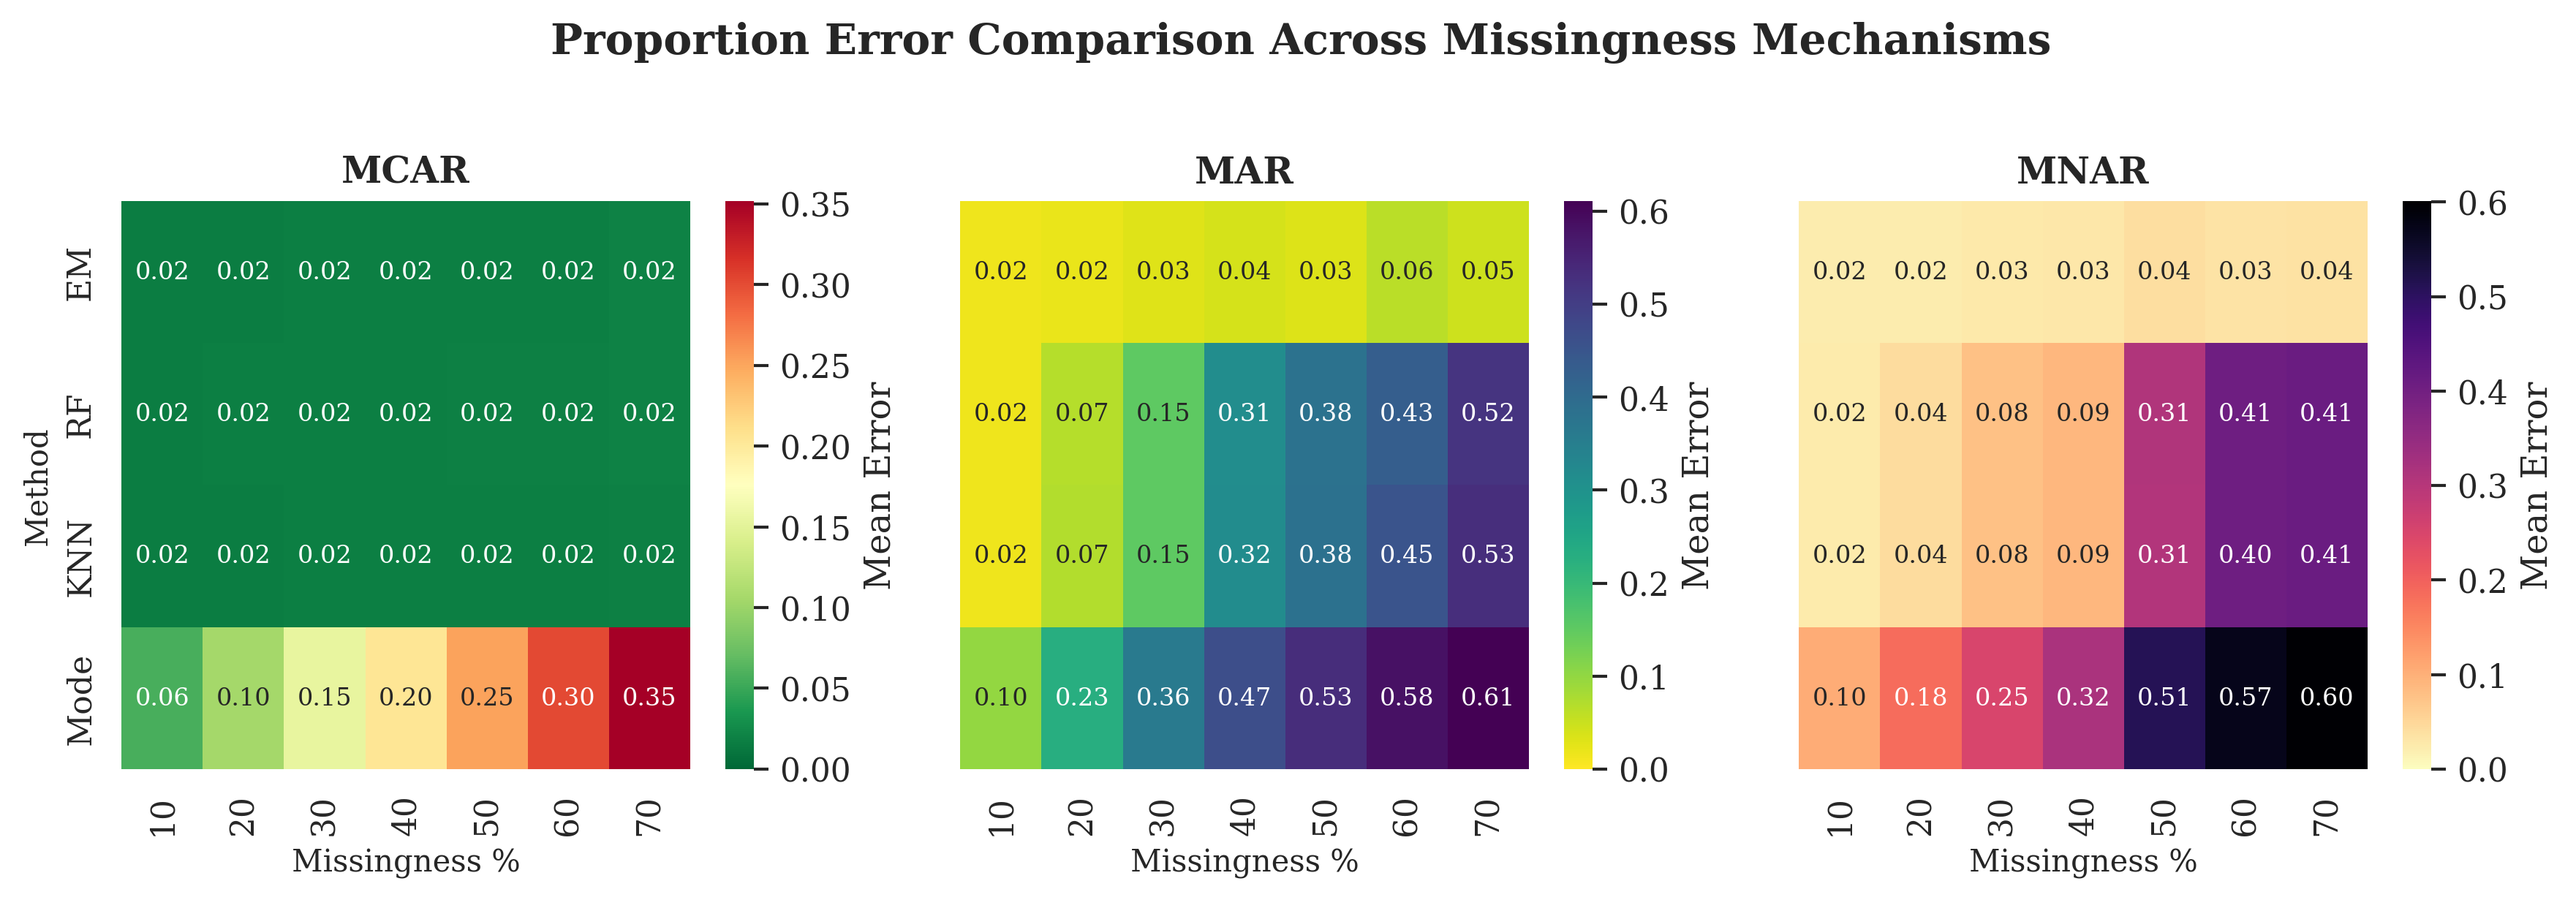
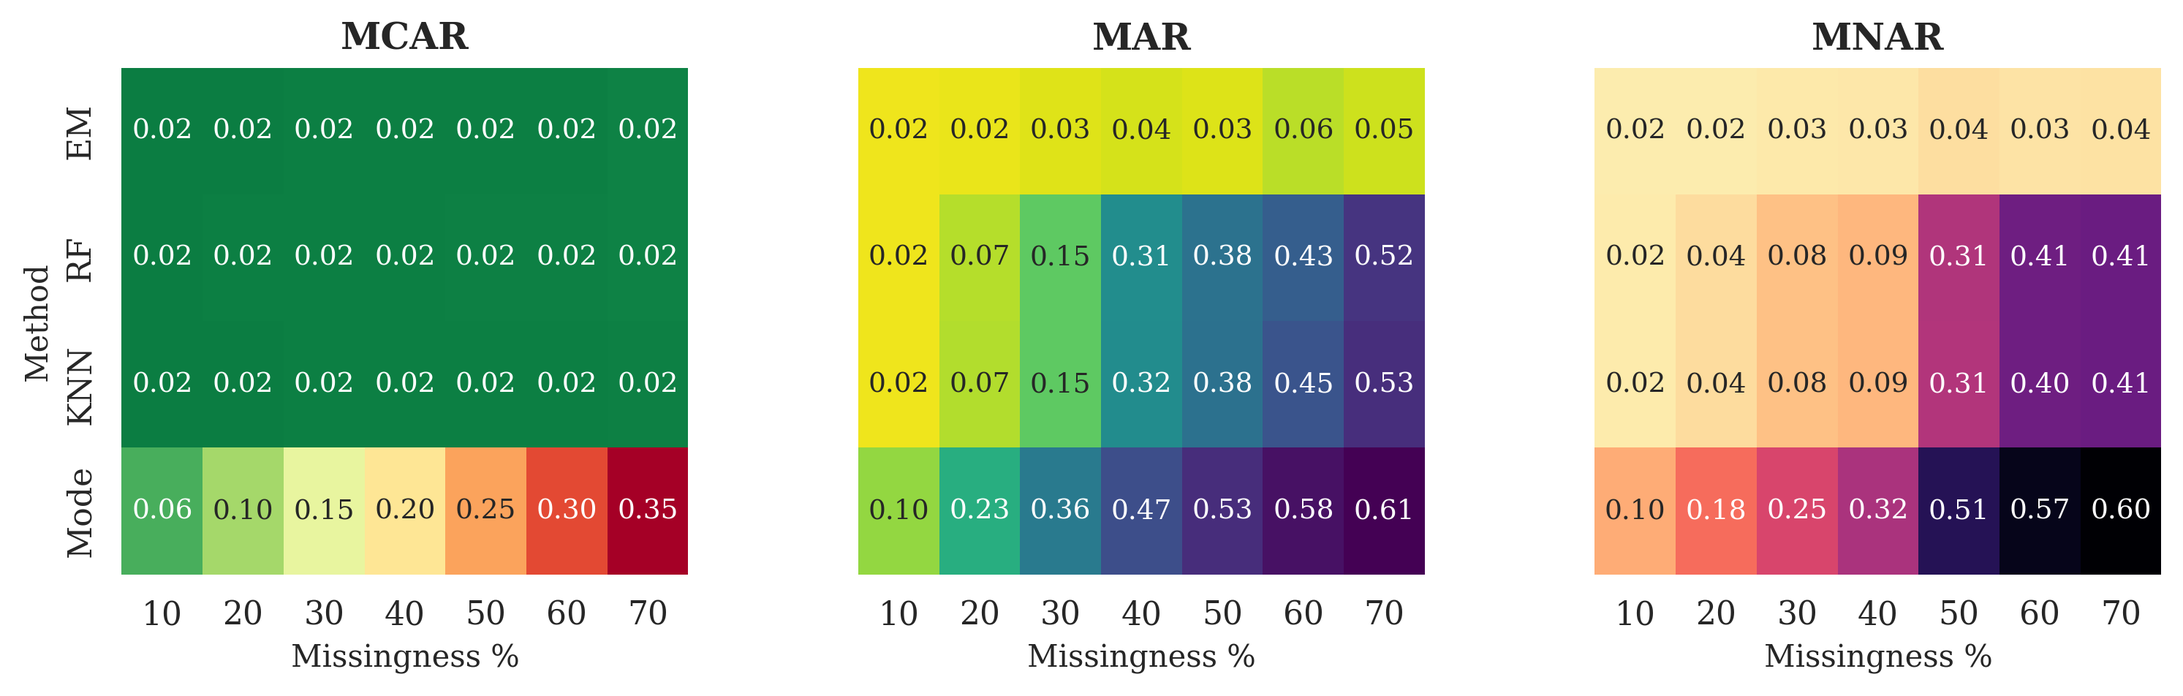
few modifications

diff --git a/utils/synthetic_multivariate/visualizations.py b/utils/synthetic_multivariate/visualizations.py
@@ -13,20 +13,21 @@ warnings.simplefilter(action='ignore', category=SyntaxWarning)
 sns.set_style("whitegrid")
 sns.set_context("paper", font_scale=1.2)
 plt.rcParams['font.family'] = 'serif'
+annot_kws = {"fontsize": 9}
 
-def plot_error_heatmap(df, figsize=(12, 4)):
-    """
-    Create heatmap showing average error across all mechanisms.
-    """
+def plot_error_heatmap(df, figsize=(12, 3)):
     df_error = prepare_error_data(df)
     
-    fig, axes = plt.subplots(1, 3, figsize=figsize, sharey=True)
+    # 'wspace': 0.5 adds significant horizontal space between plots (default is usually ~0.2)
+    fig, axes = plt.subplots(1, 3, figsize=figsize, sharey=True, 
+                             gridspec_kw={'wspace': 0.3}) 
+    
     cmaps = ['RdYlGn_r', 'viridis_r', 'magma_r']
     
     for idx, mechanism in enumerate(['MCAR', 'MAR', 'MNAR']):
         data = df_error[df_error['mechanism'] == mechanism]
         data.loc[:,"missingness_pct"] = round(data.loc[:,"missingness_pct"], 2)
-        # data.loc[:,"error"] = round(data.loc[:,"error"], 1)
+        
         pivot_data = data.pivot_table(
             values='error',
             index='method',
@@ -34,7 +35,6 @@ def plot_error_heatmap(df, figsize=(12, 4)):
             aggfunc='mean'
         )
         
-        # Reorder methods
         method_order = ['EM', 'MICE', 'KNN', 'Median', 'Mean']
         pivot_data = pivot_data.reindex(method_order)
         
@@ -44,9 +44,11 @@ def plot_error_heatmap(df, figsize=(12, 4)):
             fmt='.2f',
             cmap=cmaps[idx],
             ax=axes[idx],
-            cbar_kws={'label': 'Mean Error'},
+            cbar=False,
+            square=True, 
             vmin=0,
-            vmax=pivot_data.values.max()
+            vmax=pivot_data.values.max(),
+            annot_kws=annot_kws
         )
         
         axes[idx].set_title(mechanism, fontweight='bold', fontsize=12)
@@ -57,9 +59,9 @@ def plot_error_heatmap(df, figsize=(12, 4)):
         else:
             axes[idx].set_ylabel('')
     
-    plt.suptitle('Error Comparison Across Missingness Mechanisms', 
-                 fontsize=14, fontweight='bold', y=1.02)
-    plt.tight_layout()
+    # plt.suptitle('Error Comparison Across Missingness Mechanisms', 
+    #              fontsize=14, fontweight='bold', y=1.05)
+    
     return fig
 
 
@@ -1055,27 +1057,25 @@ def create_correlation_report(df, output_folder='plots'):
     """
     os.makedirs(output_folder, exist_ok=True)
     
-    # --- Plot 1: Independence (Covariance Index 0) ---
-    # In this scenario (Identity Matrix), EM should not perform significantly better than Mean
     fig_indep = plot_method_comparison_flexible(
         df,
         x_axis='missingness_pct',
         y_axis='error',
-        mechanism='MAR',      # We compare under MAR
+        mechanism='MAR',      
         cov_idx=0,            # Index 0 = Independence (from main.py config)
         methods=['EM', 'MICE', 'KNN', 'Mean'],
         figsize=(8, 6)
     )
     
     if fig_indep:
-        # Overwrite title and labels for academic clarity
+       
         ax = fig_indep.axes[0]
         
-        # UPDATED TITLE: Specifies Independence and Sigma = I
+        
         ax.set_title(r"Impact of Correlation: Independence ($\Sigma = I$)\nMechanism: MAR", 
                      fontweight='bold', fontsize=14)
         
-        # UPDATED Y-LABEL: Specifies the error formula
+        
         ax.set_ylabel(r'Mean Estimation Error ($||\hat{\mu} - \mu||_2$)', fontsize=12)
         
         # Save
@@ -1084,30 +1084,24 @@ def create_correlation_report(df, output_folder='plots'):
         plt.close(fig_indep)
         print(f"Saved: {save_path}")
 
-    # --- Plot 2: Strong Correlation (Covariance Index 2) ---
-    # In this scenario (rho=0.9), EM should significantly outperform Mean Imputation
+
     fig_strong = plot_method_comparison_flexible(
         df,
         x_axis='missingness_pct',
         y_axis='error',
         mechanism='MAR',
-        cov_idx=2,            # Index 2 = Strong Correlation (from main.py config)
+        cov_idx=2,            # Index 2 = Strong Correlation 
         methods=['EM', 'MICE', 'KNN', 'Mean'],
         figsize=(8, 6)
     )
     
     if fig_strong:
-        # Overwrite title and labels for academic clarity
-        ax = fig_strong.axes[0]
         
-        # UPDATED TITLE: Specifies Rho = 0.9
+        ax = fig_strong.axes[0]
         ax.set_title(r"Impact of Correlation: Strong Correlation ($\rho = 0.9$)" + "\nMechanism: MAR", 
                      fontweight='bold', fontsize=14)
-        
-        # UPDATED Y-LABEL
         ax.set_ylabel(r'Mean Estimation Error ($||\hat{\mu} - \mu||_2$)', fontsize=12)
         
-        # Save
         save_path = os.path.join(output_folder, 'error_strong_correlation_MAR.png')
         fig_strong.savefig(save_path, dpi=300, bbox_inches='tight')
         plt.close(fig_strong)

diff --git a/utils/synthetic_GMM/visualizations_GMM.py b/utils/synthetic_GMM/visualizations_GMM.py
@@ -10,22 +10,22 @@ sns.set_style("whitegrid")
 sns.set_context("paper", font_scale=1.2)
 plt.rcParams['font.family'] = 'serif'
 
-def plot_error_heatmap(df, figsize=(12, 4)):
+def plot_error_heatmap(df, figsize=(12, 3)):
     """
     Create heatmap showing average error across all mechanisms.
     """
     df_error = prepare_error_data(df)
     
-    fig, axes = plt.subplots(1, 3, figsize=figsize, sharey=True)
+    # 'wspace': 0.5 adds significant horizontal space between plots (default is usually ~0.2)
+    fig, axes = plt.subplots(1, 3, figsize=figsize, sharey=True, 
+                             gridspec_kw={'wspace': 0.3}) 
+    
     cmaps = ['RdYlGn_r', 'viridis_r', 'magma_r']
-    # Define annotation keyword arguments to set a smaller font size
-    annot_font_size = 8  # You can adjust this value
-    annot_kws = {"fontsize": annot_font_size}
+    annot_kws = {"fontsize": 9}
     
     for idx, mechanism in enumerate(['MCAR', 'MAR', 'MNAR']):
         data = df_error[df_error['mechanism'] == mechanism]
         
-        # data.loc[:, 'missingness_pct'] = data.loc[:, 'missingness_pct'].astype(str)
         pivot_data = data.pivot_table(
             values='error',
             index='method',
@@ -43,22 +43,16 @@ def plot_error_heatmap(df, figsize=(12, 4)):
             fmt='.2f',
             cmap=cmaps[idx],
             ax=axes[idx],
-            cbar_kws={'label': 'Mean Error'},
+            cbar=False,
             vmin=0,
             vmax=pivot_data.values.max(),
+            # square=True, 
             annot_kws=annot_kws
         )
 
-        # --- NEW CODE BLOCK: Force x-axis labels to be integers ---
-        # 1. Get the current labels (which are likely floats like '10.0', '20.0')
         x_labels = [label.get_text() for label in axes[idx].get_xticklabels()]
-        
-        # 2. Format them to remove the '.0' (e.g., '10.0' -> '10')
         integer_labels = [label.replace('.0', '') for label in x_labels]
-        
-        # 3. Set the new integer labels back to the axis
         axes[idx].set_xticklabels(integer_labels)
-        # -----------------------------------------------------------
 
         axes[idx].set_title(mechanism, fontweight='bold', fontsize=12)
         axes[idx].set_xlabel('Missingness %', fontsize=10)
@@ -68,9 +62,9 @@ def plot_error_heatmap(df, figsize=(12, 4)):
         else:
             axes[idx].set_ylabel('')
     
-    plt.suptitle('Proportion Error Comparison Across Missingness Mechanisms', 
-                 fontsize=14, fontweight='bold', y=1.02)
-    plt.tight_layout()
+    # plt.suptitle('Proportion Error Comparison Across Missingness Mechanisms', 
+    #              fontsize=14, fontweight='bold', y=1.02)
+    # plt.tight_layout()
     return fig
 
 

diff --git a/simulation_run.py b/simulation_run.py
@@ -102,10 +102,10 @@ PERCENTAGES_CLASS_MISSINGNESS = np.arange(0.1, 0.71, 0.1)
 results_gmm = pd.read_csv("results\\synthetic_gmm\\simulation_results_gmm.csv")
 
 # Visualize GMM results
-create_full_report_gmm(results_gmm, output_folder='plots\\synthetic_gmm_alternative')
+create_full_report_gmm(results_gmm, output_folder='plots\\synthetic_gmm')
 
 print("\n" + "="*80)
 print("ALL SIMULATION STUDIES COMPLETED")
 print("="*80)
-print("\nMultivariate Gaussian results: plots\\synthetic_gmm_alternative")
+print("\nMultivariate Gaussian results: plots\\synthetic_gmm")
 print("GMM results: plots\\synthetic_gmm")
